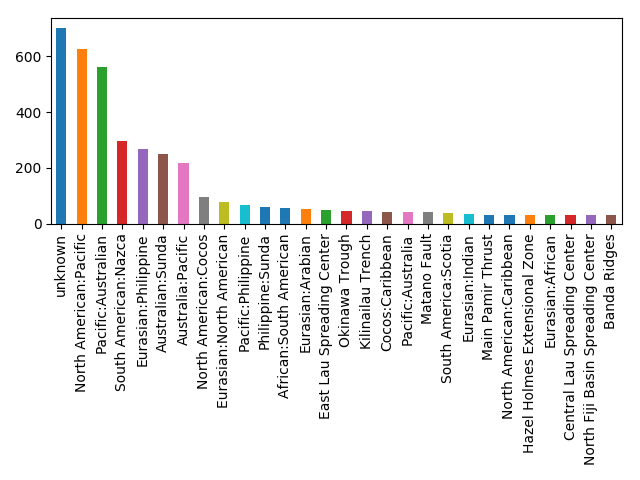
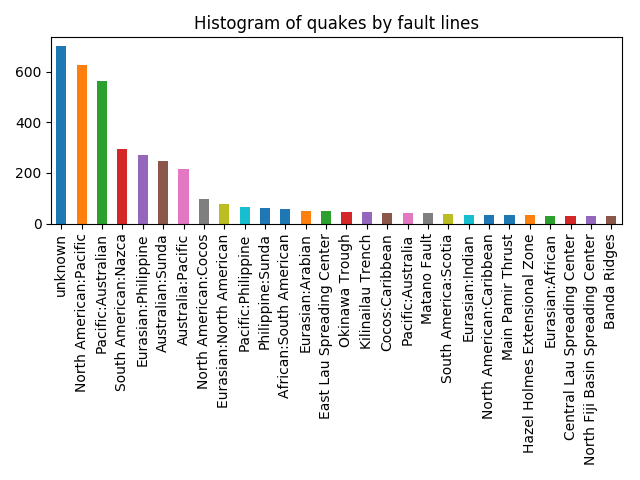
[kmeans] sil score for different cluster sizes

diff --git a/src/kmeans.py b/src/kmeans.py
@@ -1,7 +1,47 @@
 from utils.utils import load_data
 import pandas as pd
+import numpy as np
+from sklearn.cluster import KMeans
+from sklearn.metrics import silhouette_score
 
 pd.set_option('display.max_columns', 10)
 pd.set_option('display.width', 1000)
 
 df = load_data()
+
+clusters = KMeans(n_clusters=2, random_state=0).fit_predict(df[["x", "y", "z"]])
+print("silhouette score by faults: ", silhouette_score(df[["x", "y", "z"]], clusters))
+
+
+def gen_sil_score_by_cluster(n_clusters, file_path):
+    """
+    saves a file with n_clusters-1 clusters built using kmeans and computes the silhouette score for
+    each one.
+
+    :param n_clusters: max size of clusters that we want to test kmeans
+    :param file_path: path to save a csv with the size of clusters and their silhouette scores
+    :return: Bool
+    """
+
+    def study_silhouette_by_cluster(size_clusters):
+        """
+        Generates size_clusters -1 clusters with kmeans and returns their silhouette score
+
+        :param size_clusters: max size of clusters that we want to test kmeans
+        :return: numpy ndarray, shape = (size_clusters-1,2) with (cluster_size,silhouette_score)
+        """
+        mem = np.ndarray(shape=(n_clusters - 1, 2))
+        for size_cluster in range(2, size_clusters + 1):
+            clusters = KMeans(n_clusters=size_cluster, random_state=0).fit_predict(df[["x", "y", "z"]])
+            score = silhouette_score(df[["x", "y", "z"]], clusters)
+            mem[size_cluster - 2] = np.array([size_cluster, score])
+            mem = mem[mem[:, 1].argsort()][::-1]
+        return mem
+
+    sil_results = pd.DataFrame(study_silhouette_by_cluster(n_clusters),
+                               columns=["size_cluster", "sil_score"]).set_index("size_cluster")
+    sil_results.to_csv(file_path)
+    return True
+
+
+gen_sil_score_by_cluster(40, "../save/kmeans/sil_score.csv")

diff --git a/utils/utils.py b/utils/utils.py
@@ -13,7 +13,7 @@ def load_data(columns=["id", "latitude", "longitude", "fault", "time", "type"]):
     df = pd.read_csv("../data/tp2_data.csv")
     fault_names_df = pd.read_csv("../data/fault_names.csv",index_col="id")
     df = df[columns]
-    df["fault"] = df["fault"].apply(lambda faultId: fault_names_df.loc[faultId].values[0] if faultId != -1 else "unknown")
+    df["fault_names"] = df["fault"].apply(lambda faultId: fault_names_df.loc[faultId].values[0] if faultId != -1 else "unknown")
 
     df['x'], df['y'], df['z'] = zip(*df.apply(convert_coordinates, axis=1))
     df.time = pd.to_datetime(df.time, infer_datetime_format=True)

diff --git a/src/exploratory.py b/src/exploratory.py
@@ -19,6 +19,8 @@ print("\ntype\n", df["type"].value_counts())
 
 print("\n", df.loc[df['type'] == "nuclear explosion"])
 
-df.fault.astype(str).value_counts().plot("bar")
+df.fault_names.value_counts().plot("bar")
+plt.title("Histogram of quakes by fault lines")
 plt.savefig("../media/kmeans/hist_faults.png")
 plt.show()
+
